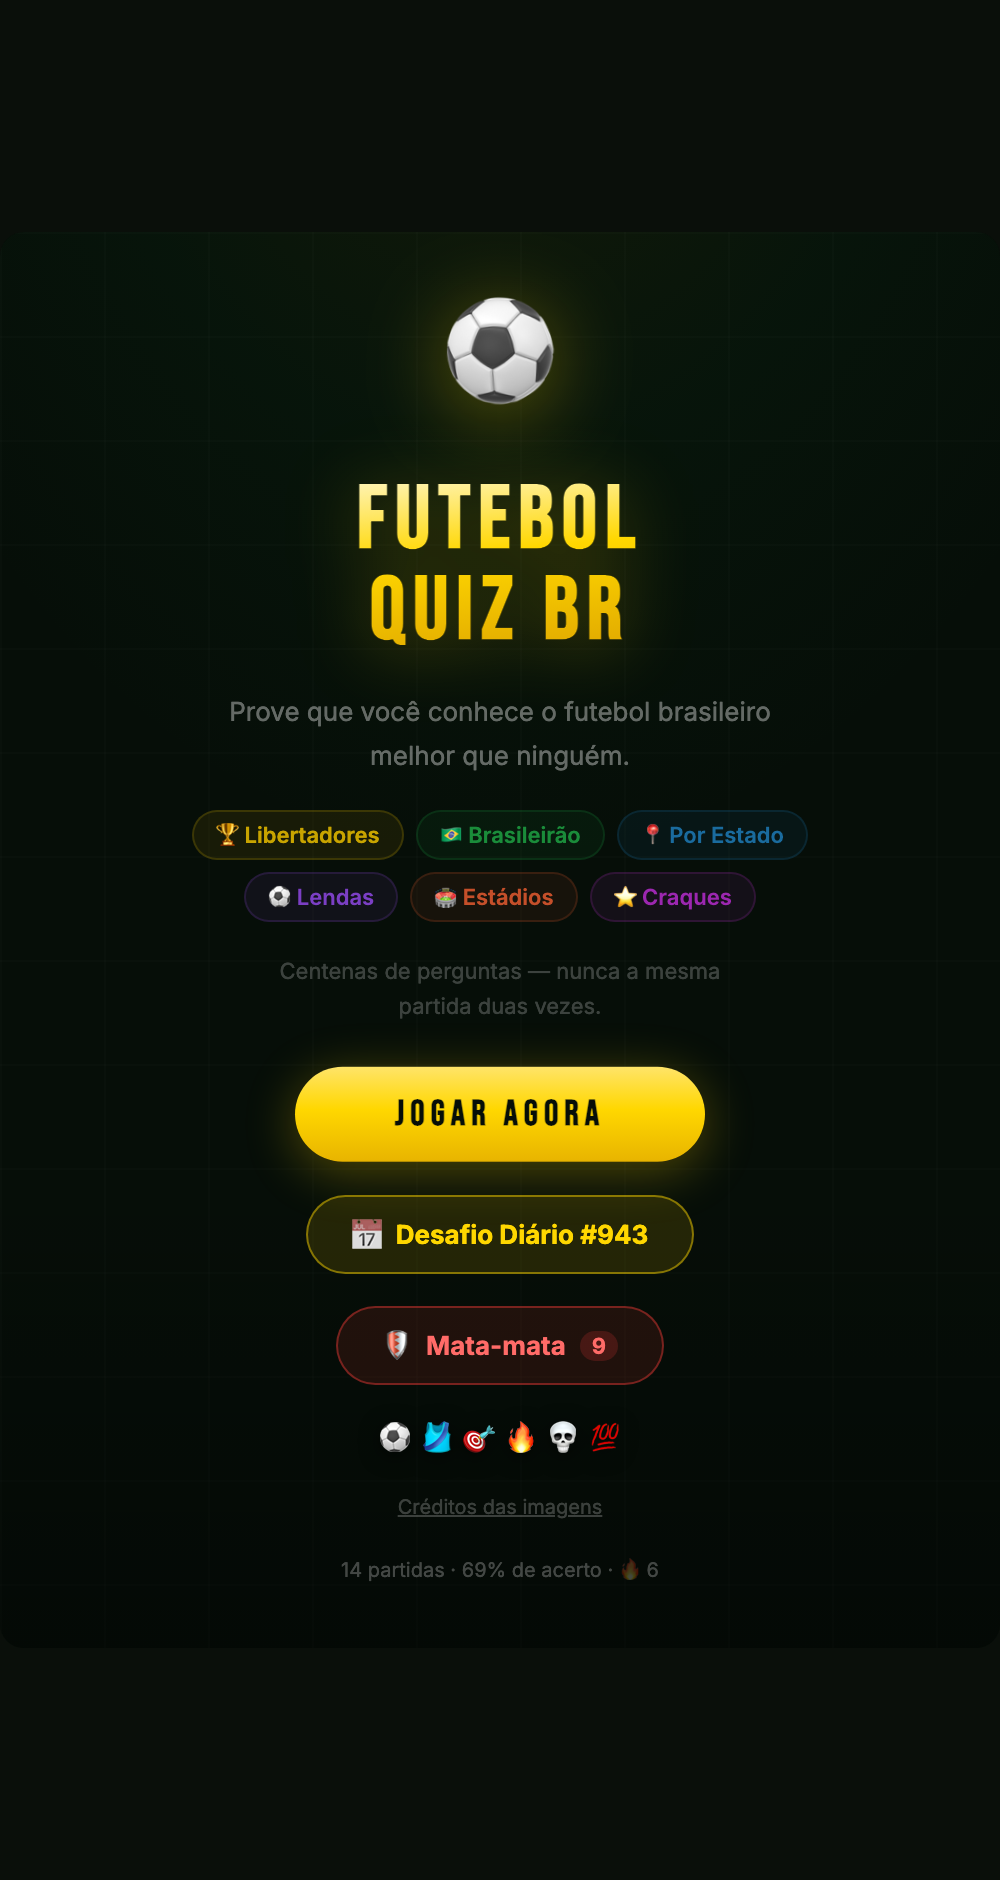
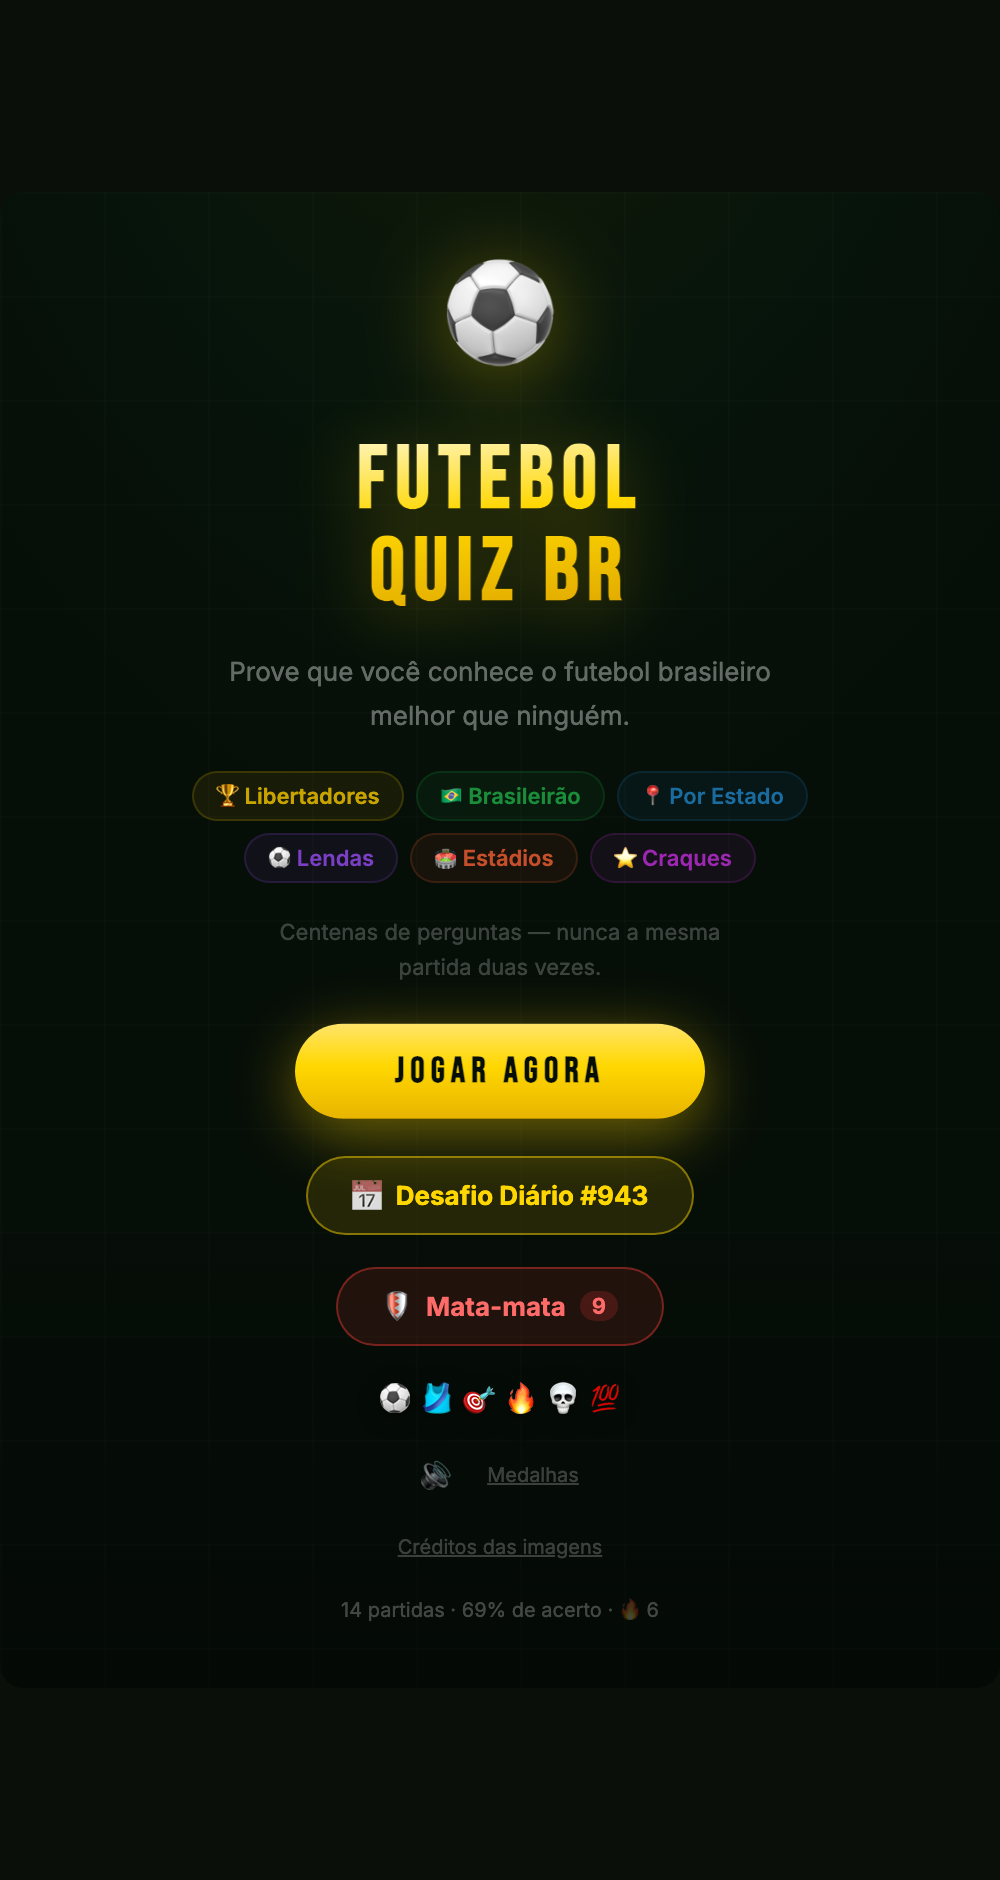
Add persisted mute toggle, medals link, and name the right answer on a miss

Changed region(s): [[0.186, 0.1234, 0.806, 0.8638], [0.62, 0.833, 0.651, 0.8638]]

diff --git a/index.html b/index.html
@@ -249,7 +249,16 @@ function AC() {
   return _AC;
 }
 
+/* MUTE — read straight from storage so it survives a reload */
+let muted = (() => { try { return localStorage.getItem('fqbr_muted') === 'true'; }
+                     catch (e) { return false; } })();
+function setMuted(v) {
+  muted = v;
+  try { localStorage.setItem('fqbr_muted', String(v)); } catch (e) {}
+}
+
 function beep(freq, dur, type='sine', vol=0.18, freqEnd=null) {
+  if (muted) return;
   try {
     const ac = AC();
     const osc = ac.createOscillator();
@@ -1997,6 +2006,14 @@ function html() {
           align-self:center;">+${e.length - 11}</span>` : ''}
       </div>`;
     })()}
+    <div style="display:flex;gap:14px;align-items:center;">
+      <button id="bmute" style="background:none;border:none;cursor:pointer;
+        font-size:15px;opacity:.55;padding:2px;" title="Som">${muted ? '🔇' : '🔊'}</button>
+      <button id="bmed" style="background:none;border:none;
+        color:rgba(255,255,255,.22);font-size:10px;cursor:pointer;
+        font-family:'Inter',system-ui;text-decoration:underline;padding:2px;">
+        Medalhas</button>
+    </div>
     <button id="bcred" style="background:none;border:none;
       color:rgba(255,255,255,.22);font-size:10px;cursor:pointer;
       font-family:'Inter',system-ui;text-decoration:underline;padding:2px;">
@@ -2373,6 +2390,8 @@ function go() {
   document.getElementById('daily-btn')?.addEventListener('click', () => { snd.select(); startDaily(); });
   document.getElementById('bcred')?.addEventListener('click', () => { snd.swipe(); sc='credits'; go(); });
   document.getElementById('surv-btn')?.addEventListener('click', () => { snd.select(); startSurvival(); });
+  document.getElementById('bmed')?.addEventListener('click',  () => { snd.swipe(); sc='medals'; go(); });
+  document.getElementById('bmute')?.addEventListener('click', () => { setMuted(!muted); snd.tap(); go(); });
   document.getElementById('medal-strip')?.addEventListener('click', () => { snd.swipe(); sc='medals'; go(); });
 
   if (sc === 'end' && !window._celebrated) {
@@ -2465,7 +2484,14 @@ function doReveal() {
     ? `<span style="font-size:15px;font-weight:800;color:#FFD700;
         font-family:'Inter',system-ui;">~ Quase! +${gained}</span>${bonuses}`
     : `<span style="font-size:15px;font-weight:800;color:#f44336;
-        font-family:'Inter',system-ui;">✗ Errou!</span>`;
+        font-family:'Inter',system-ui;">✗ Errou!</span>
+       <div style="font-size:11px;color:rgba(255,255,255,.55);margin-top:3px;
+        font-family:'Inter',system-ui;">Resposta: <strong style="color:#00e676;">${
+          q.a.map(id => {
+            const pool = q.type === 'player' ? PL : CL;
+            const hit = pool.find(x => x.id === id);
+            return hit ? hit.n : id;
+          }).join(', ')}</strong></div>`;
 
   go();
 

diff --git a/tools/patch_sound_ui.py b/tools/patch_sound_ui.py
@@ -1,0 +1,54 @@
+#!/usr/bin/env python3
+"""Persisted mute toggle + clearer reveal feedback (name the right answer)."""
+import re, io, os, sys
+
+P = os.path.abspath(os.path.join(os.path.dirname(__file__), "..", "index.html"))
+s = io.open(P, encoding="utf-8").read()
+if "MUTE" in s:
+    print("already patched"); sys.exit(0)
+
+# ── 1. mute flag honoured inside beep() ──────────────────────────────
+s = s.replace("""function beep(freq, dur, type='sine', vol=0.18, freqEnd=null) {""",
+"""/* MUTE — read straight from storage so it survives a reload */
+let muted = (() => { try { return localStorage.getItem('fqbr_muted') === 'true'; }
+                     catch (e) { return false; } })();
+function setMuted(v) {
+  muted = v;
+  try { localStorage.setItem('fqbr_muted', String(v)); } catch (e) {}
+}
+
+function beep(freq, dur, type='sine', vol=0.18, freqEnd=null) {
+  if (muted) return;""", 1)
+
+# ── 2. toggle button on the home screen ──────────────────────────────
+s = s.replace("""    <button id="bcred" style="background:none;border:none;""",
+"""    <div style="display:flex;gap:14px;align-items:center;">
+      <button id="bmute" style="background:none;border:none;cursor:pointer;
+        font-size:15px;opacity:.55;padding:2px;" title="Som">${muted ? '🔇' : '🔊'}</button>
+      <button id="bmed" style="background:none;border:none;
+        color:rgba(255,255,255,.22);font-size:10px;cursor:pointer;
+        font-family:'Inter',system-ui;text-decoration:underline;padding:2px;">
+        Medalhas</button>
+    </div>
+    <button id="bcred" style="background:none;border:none;""", 1)
+
+s = s.replace("""  document.getElementById('surv-btn')?.addEventListener('click', () => { snd.select(); startSurvival(); });""",
+"""  document.getElementById('surv-btn')?.addEventListener('click', () => { snd.select(); startSurvival(); });
+  document.getElementById('bmed')?.addEventListener('click',  () => { snd.swipe(); sc='medals'; go(); });
+  document.getElementById('bmute')?.addEventListener('click', () => { setMuted(!muted); snd.tap(); go(); });""", 1)
+
+# ── 3. when you miss, say what the right answer was ──────────────────
+s = s.replace("""    : `<span style="font-size:15px;font-weight:800;color:#f44336;
+        font-family:'Inter',system-ui;">✗ Errou!</span>`;""",
+"""    : `<span style="font-size:15px;font-weight:800;color:#f44336;
+        font-family:'Inter',system-ui;">✗ Errou!</span>
+       <div style="font-size:11px;color:rgba(255,255,255,.55);margin-top:3px;
+        font-family:'Inter',system-ui;">Resposta: <strong style="color:#00e676;">${
+          q.a.map(id => {
+            const pool = q.type === 'player' ? PL : CL;
+            const hit = pool.find(x => x.id === id);
+            return hit ? hit.n : id;
+          }).join(', ')}</strong></div>`;""", 1)
+
+io.open(P, "w", encoding="utf-8").write(s)
+print("mute toggle + reveal feedback patched")

diff --git a/tools/shots.py b/tools/shots.py
@@ -8,6 +8,10 @@ OUT = os.path.join(ROOT, "store-assets")
 
 # name -> JS to run once the page has booted
 STATES = {
+ "s-wrong": """diffKey='moderado'; startGame();
+   const q=cat.qs[0]; const bad=disp.find(o=>!q.a.includes(o.id));
+   sel=new Set([bad.id]); tLeft=12; doReveal();""",
+
  "s-medals": """stats={games:14,correct:132,answered:190,bestStreak:6,perfect:1,hard80:1,survBest:4};
    LS.set('stats',stats); sc='medals'; go();""",
  "s-home2": """stats={games:14,correct:132,answered:190,bestStreak:6,perfect:1,hard80:1,survBest:9};
